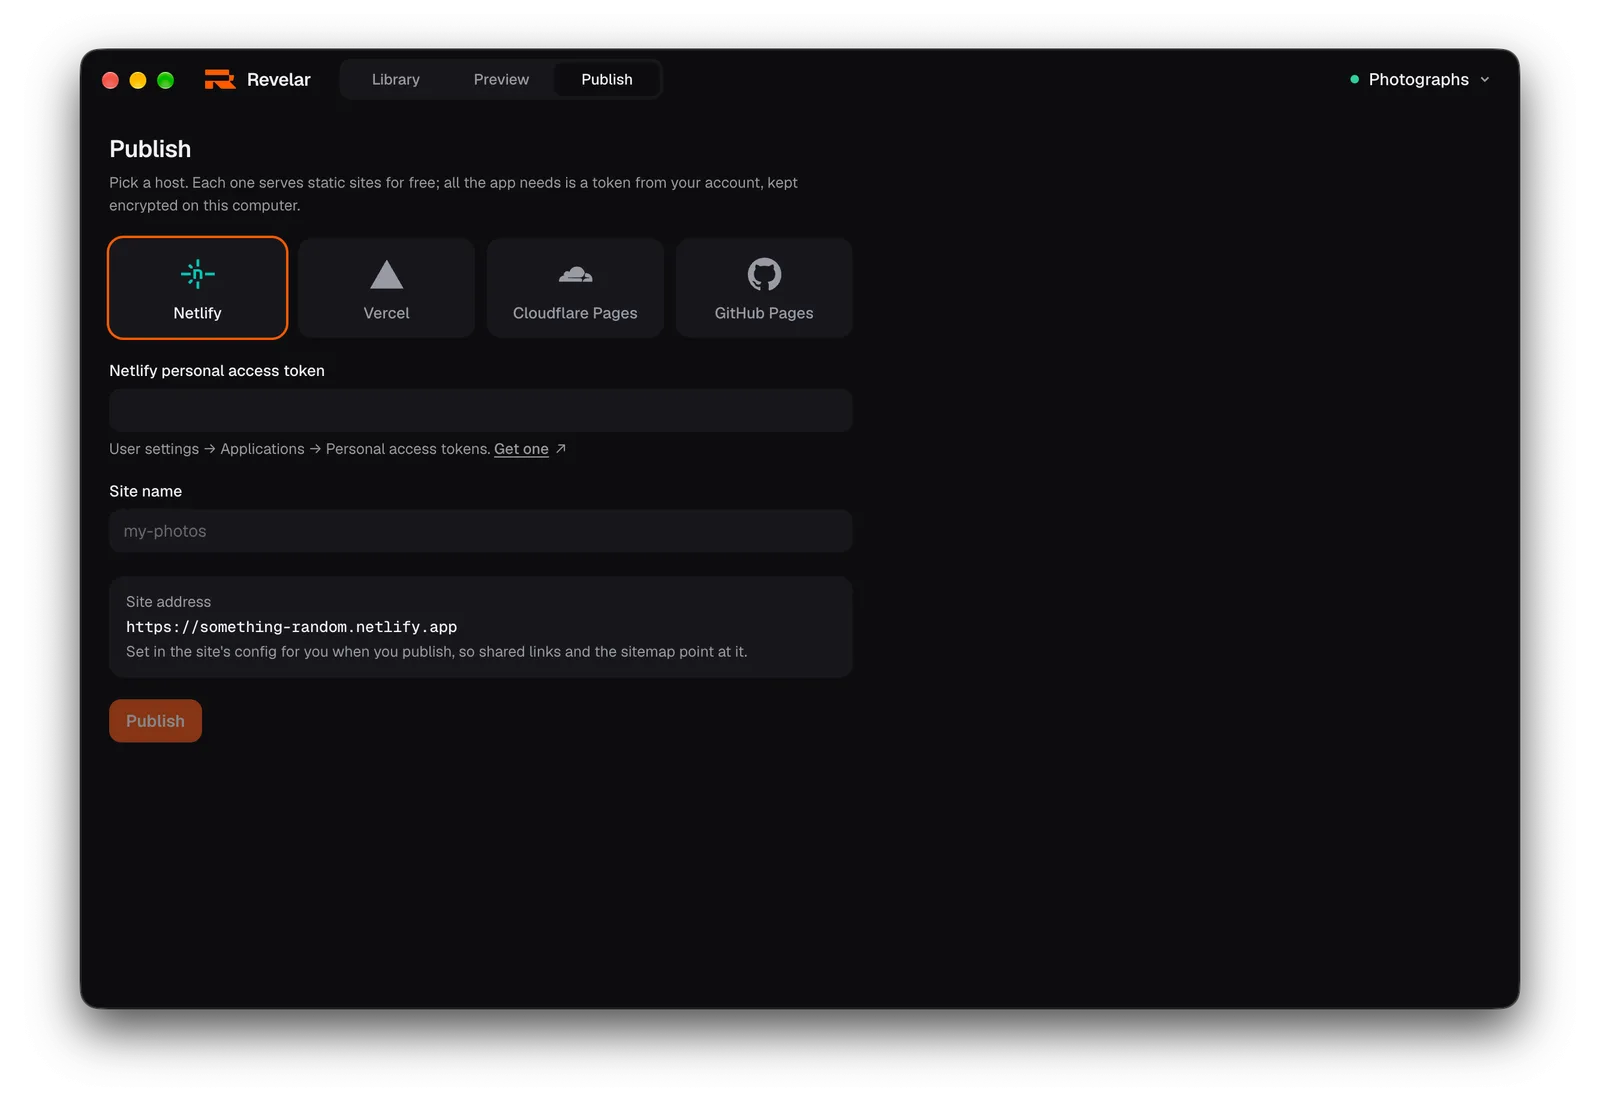
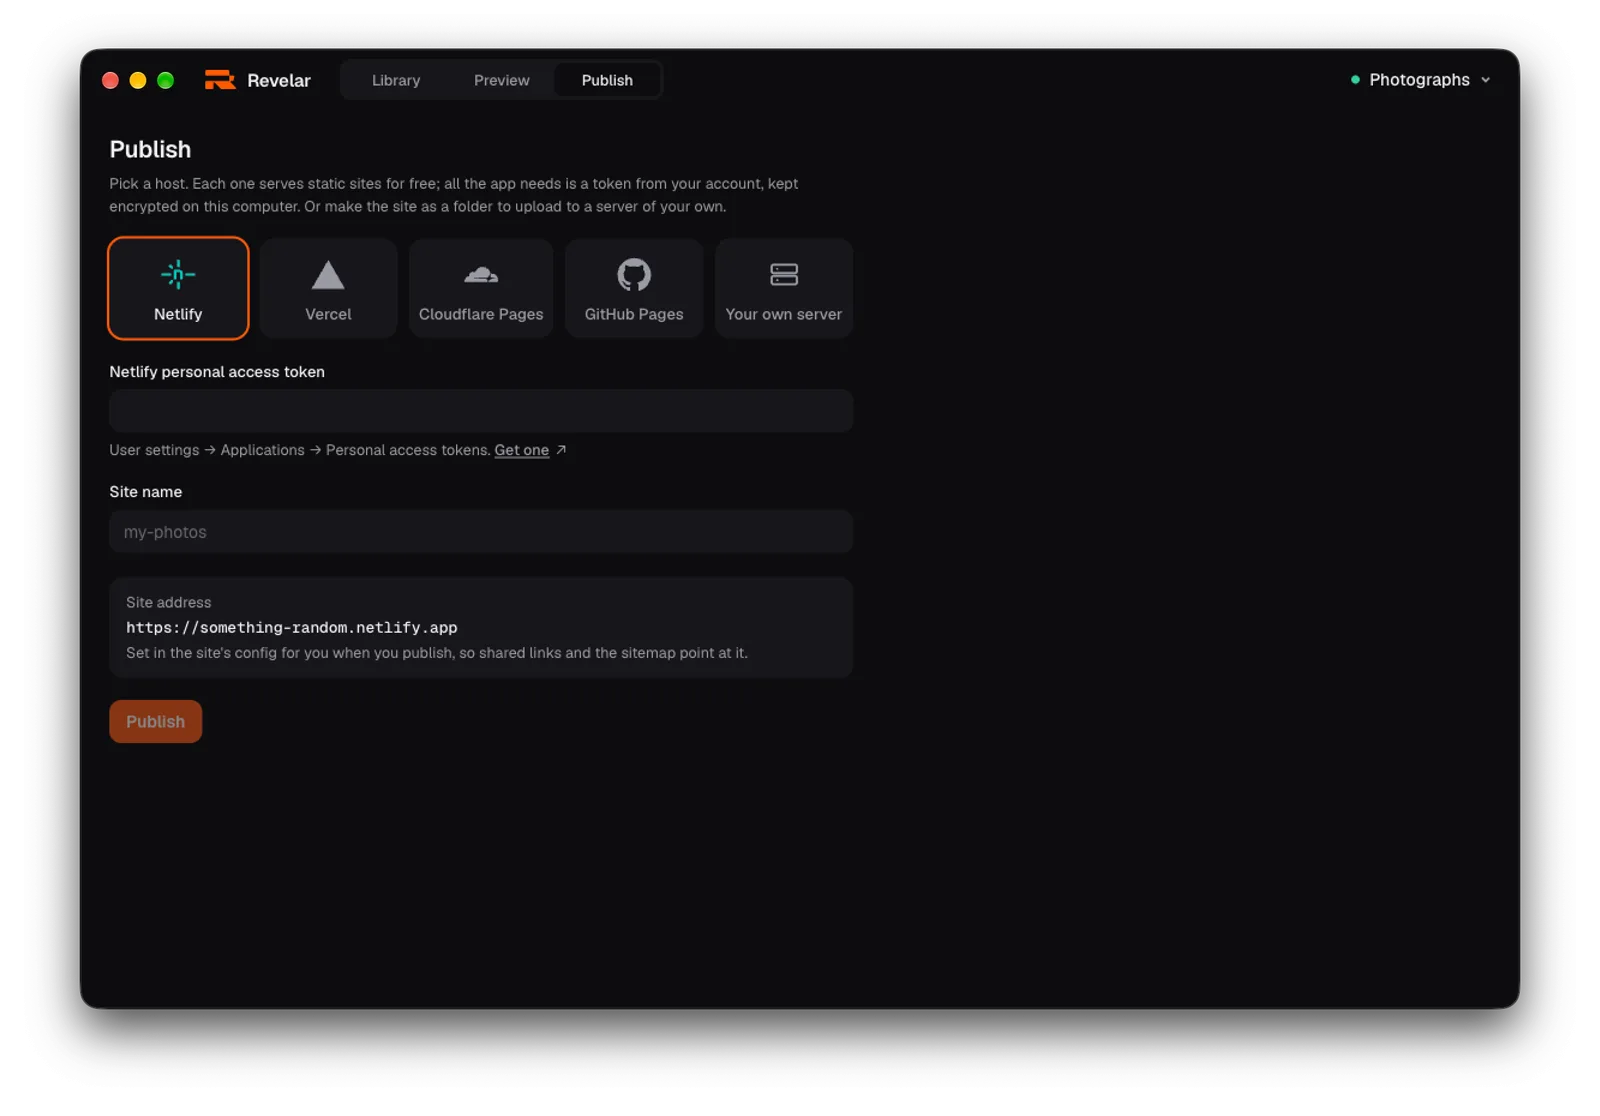
www, readme: the publish screen with your own server
Publish screenshots retaken for five choices plus the own-server result,
set into the frames of the earlier window captures. The marketing page's
publish step mentions uploading to a server of your own.

diff --git a/www/index.html b/www/index.html
@@ -535,14 +535,15 @@
 										src="img/publish.webp"
 										width="1600"
 										height="1116"
-										alt="The publish screen, with four hosts to pick from"
+										alt="The publish screen, with four hosts and your own server to pick from"
 										loading="lazy"
 								/></picture>
 							</div>
 							<strong>Put it online</strong>
 							<p>
 								Pick a host, paste a token from your account, publish. Nothing leaves your computer
-								until then, and only the finished site does. Updates are one click.
+								until then, and only the finished site does. Updates are one click. Or make the site
+								as a folder and upload it to a server of your own.
 							</p>
 						</li>
 					</ol>
